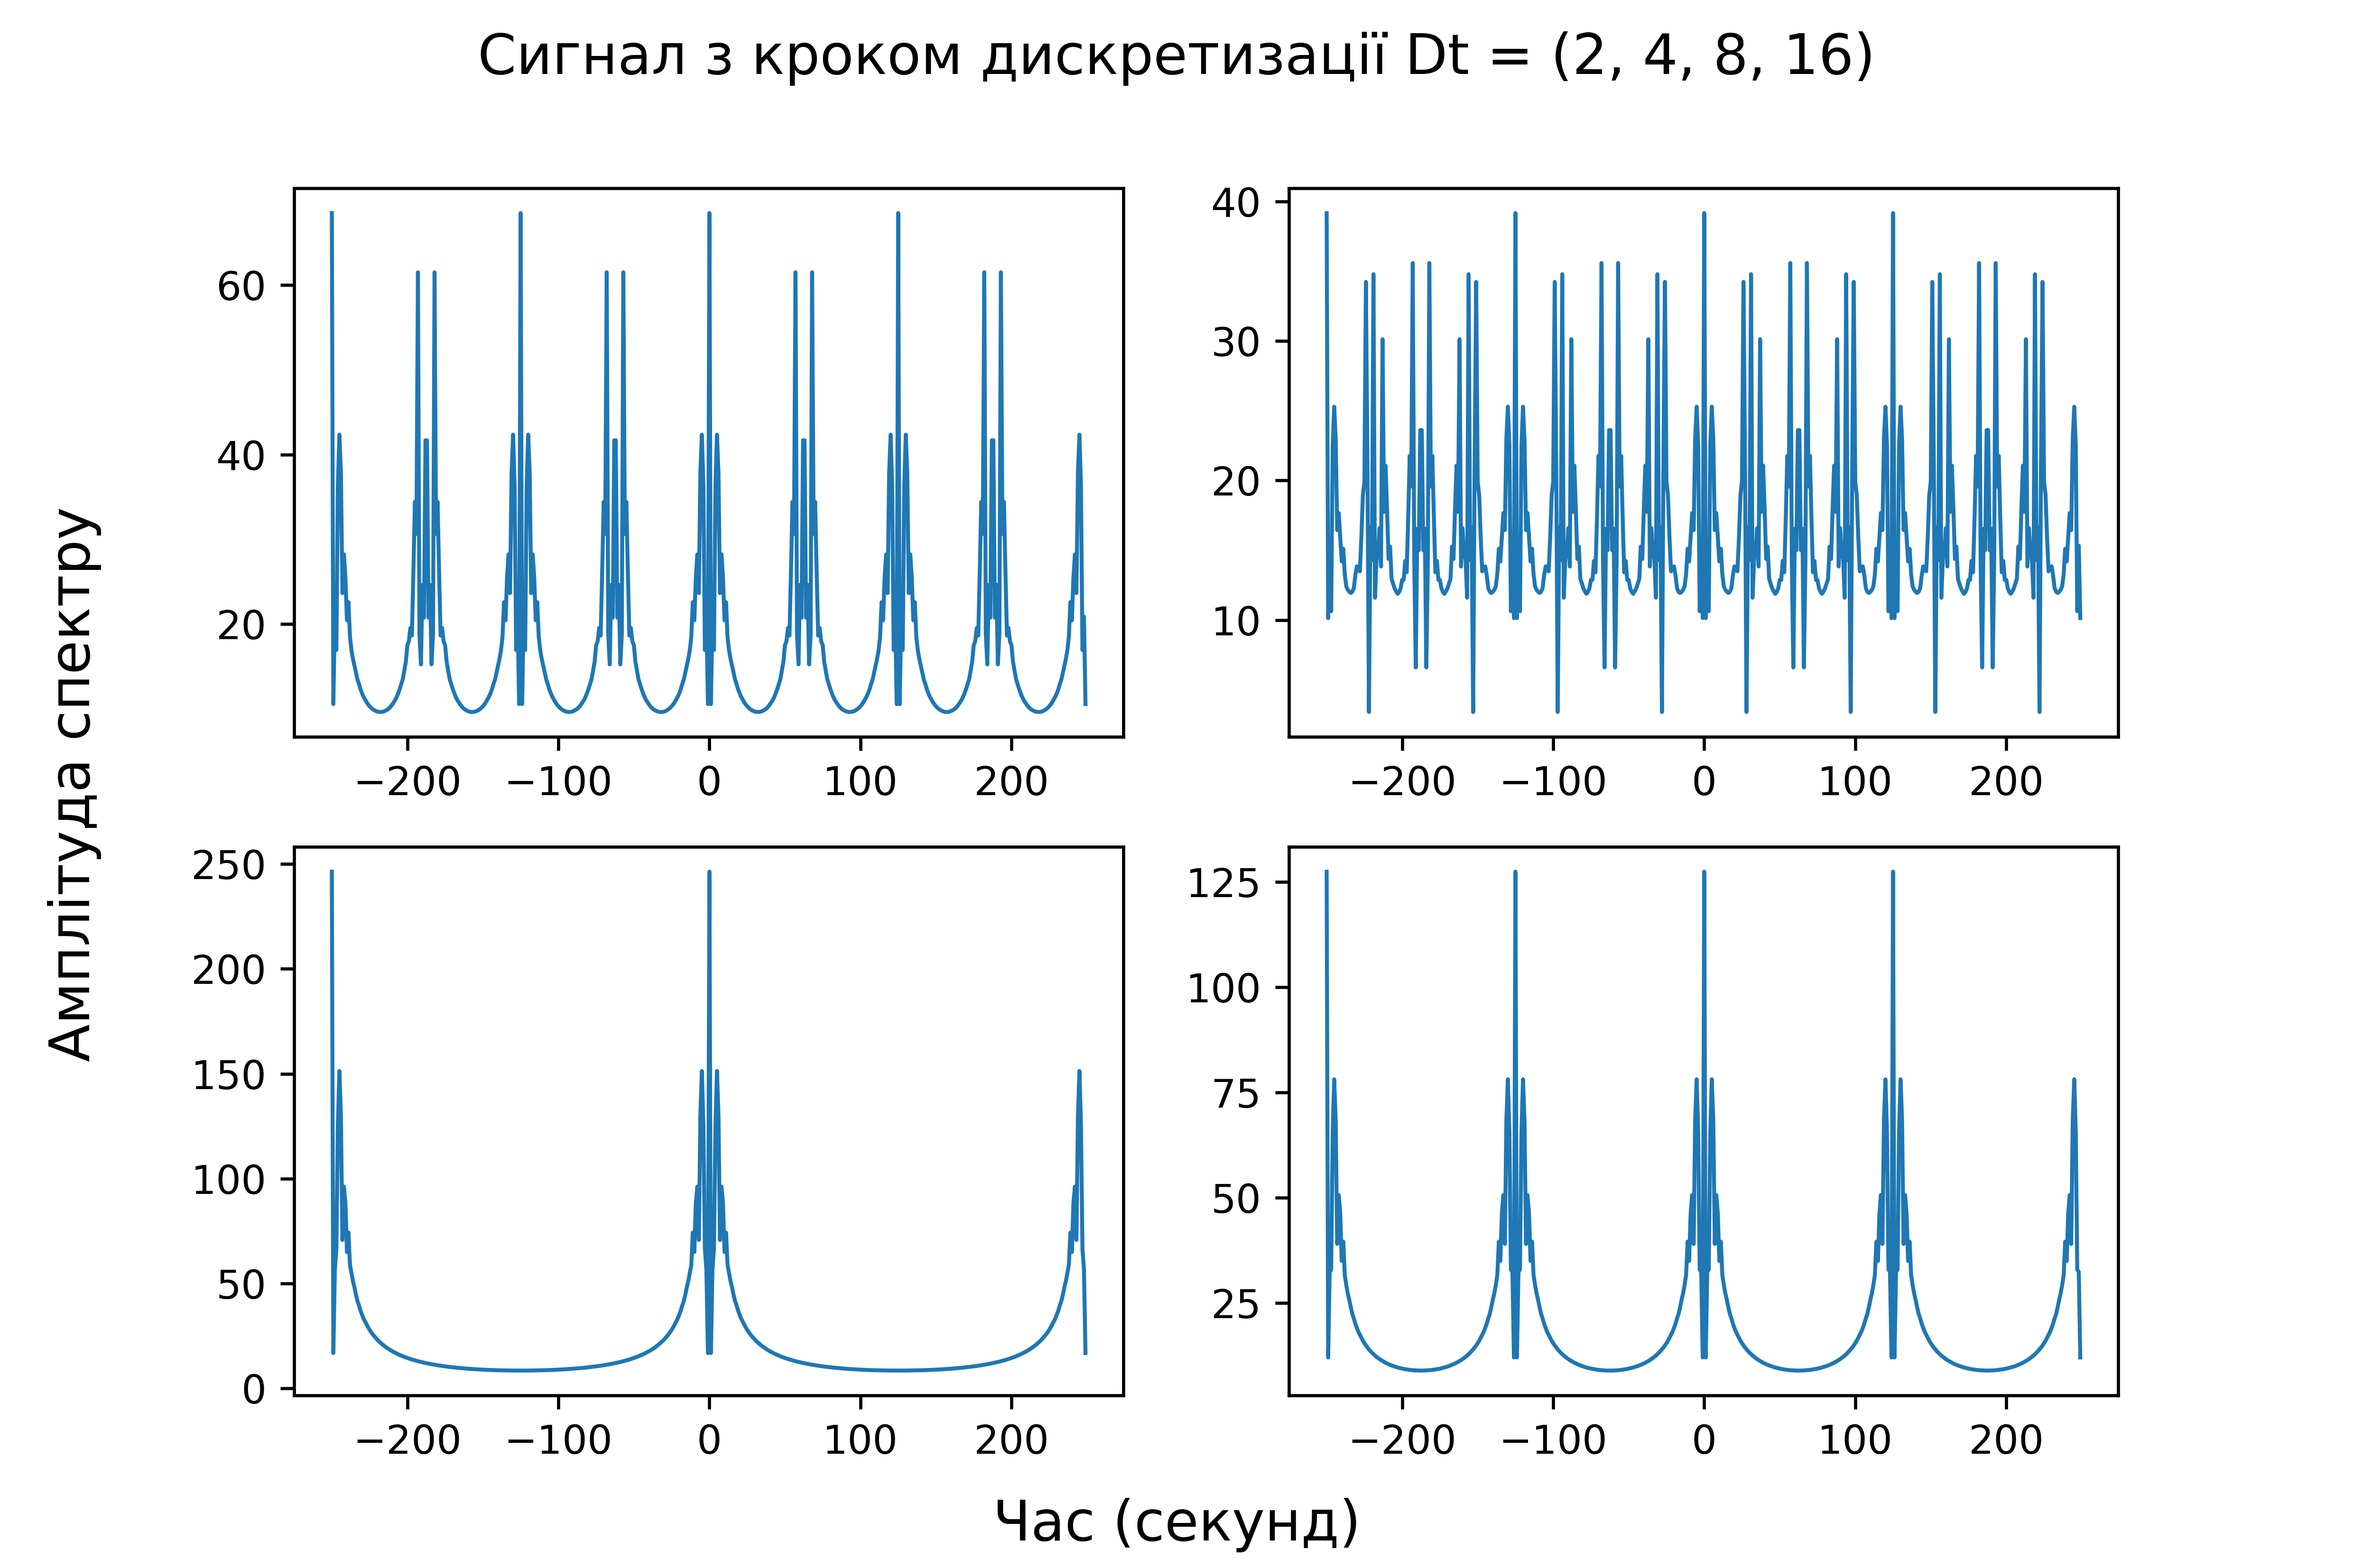
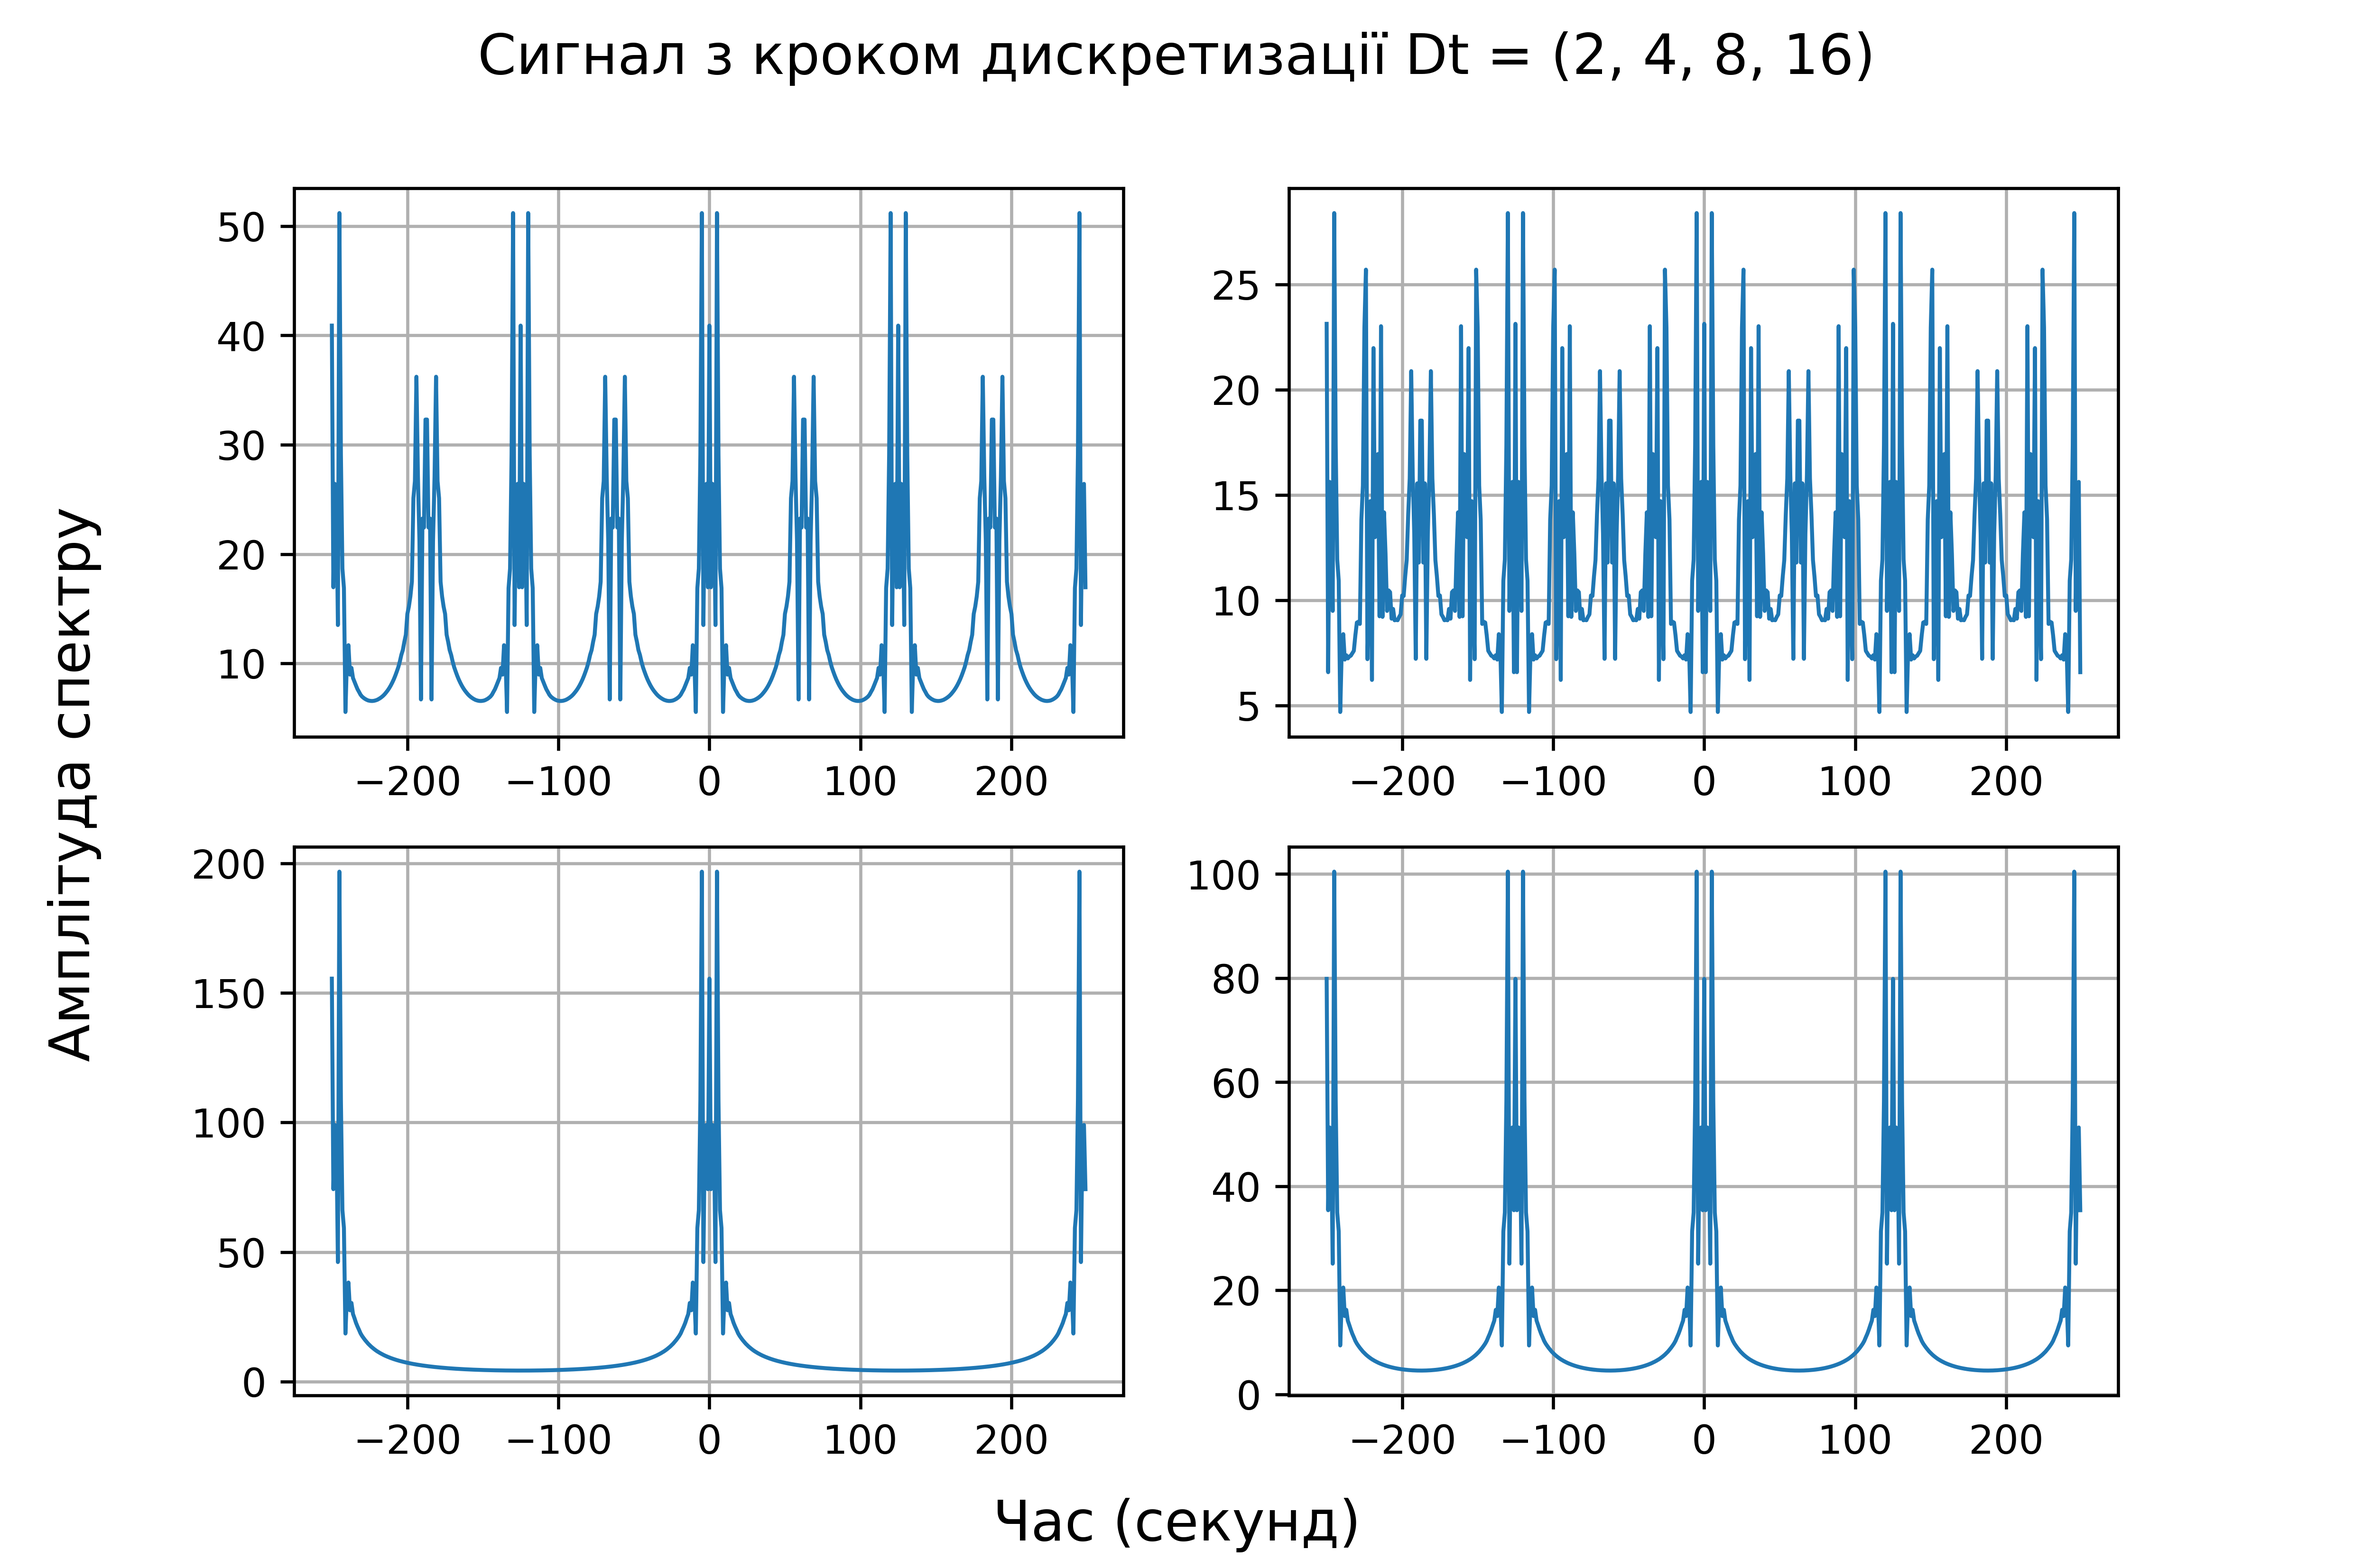
Signal processing, 3

diff --git a/SignalProcessing/SignalProcessing.py b/SignalProcessing/SignalProcessing.py
@@ -1,4 +1,5 @@
 import numpy
+import numpy as np
 import scipy
 import matplotlib.pyplot as plt
 
@@ -74,19 +75,7 @@ def build_graphic():
         discrete_signal_after_filers += [list(filtered_signal2)]
         ...
 
-    e1 = discrete_signal_after_filers - filtered_signal
-    print(e1)
-    print("______________________")
-
     x1 = [2, 4, 8, 16]
-    e2 = e1[0][0:len(x1)]
-    signal_noise = numpy.var(e1)/numpy.var(filtered_signal)
-    signal_noise2 = []
-    for i in range(len(x1)):
-        signal_noise2.append(signal_noise - e1[0][i])
-
-    print(x1)
-    print(signal_noise)
     x_lab = "Час (секунд)"
     y_lab = "Амплітуда сигналу"
     title_disc = "Сигнал з кроком дискретизації Dt = (2, 4, 8, 16)"
@@ -94,9 +83,73 @@ def build_graphic():
     draw2(time_line_ox, discrete_signals, x_lab, y_lab, title_disc, "графік 3")
     draw2(freq_countdown, discrete_spectrums, x_lab, "Амплітуда спектру", title_disc, "графік 4")
     draw2(time_line_ox, discrete_signal_after_filers, x_lab, y_lab, title_disc, "графік 5")
-    draw1(x1, e2, "Крок дискретизації", "Дисперсія", "Залежність дисперсії від кроку дискретизації", "графік 6")
-    draw1(x1, signal_noise2, "Крок дискретизації", "ССШ", "Залежність дисперсії від кроку дискретизації", "графік 7")
 
+    dispersions = []
+    signal_noise = []
+    for i in range(len(x1)):
+        e1 = discrete_signal_after_filers[i] - filtered_signal
+        dispersion = numpy.var(e1)
+        dispersions.append(dispersion)
+        signal_noise.append(numpy.var(filtered_signal) / dispersion)
+        ...
+
+    draw1(x1, dispersions, "Крок дискретизації", "Дисперсія", "Залежність дисперсії від кроку дискретизації",
+          "графік 6")
+    draw1(x1, signal_noise, "Крок дискретизації", "ССШ", "Залежність відношення сигнал-шум від кроку дискретизації",
+          "графік 7")
+# Практична робота №4
+    bits_list = []
+    quantize_signals = []
+    num = 0
+    x2 = [4, 16, 64, 256]
+    for m in x2:
+        delta = (numpy.max(filtered_signal) - numpy.min(filtered_signal)) / (m - 1)
+        quantize_signal = delta * np.round(filtered_signal / delta)
+        quantize_signals.append(list(quantize_signal))
+        quantize_levels = numpy.arange(numpy.min(quantize_signal), numpy.max(quantize_signal) + 1, delta)
+        quantize_bit = numpy.arange(0, m)
+        quantize_bit = [format(bits, '0' + str(int(numpy.log(m) / numpy.log(2))) + 'b') for bits in quantize_bit]
+        quantize_table = numpy.c_[quantize_levels[:m], quantize_bit[:m]]
+        fig, ax = plt.subplots(figsize=(14 / 2.54, m / 2.54))
+        table = ax.table(cellText=quantize_table, colLabels=['Значення сигналу', 'Кодова послідовність'],
+                         loc='center')
+        table.set_fontsize(14)
+        table.scale(1, 2)
+        ax.axis('off')
+        fig.savefig('./figures/' + 'Таблиця квантування для %d рівнів ' % m + '.png', dpi=600)
+        bits = []
+        for signal_value in quantize_signal:
+            for index, value in enumerate(quantize_levels[:m]):
+                if numpy.round(numpy.abs(signal_value - value), 0) == 0:
+                    bits.append(quantize_bit[index])
+                    break
+
+        bits = [int(item) for item in list(''.join(bits))]
+        bits_list.append(bits)
+        fig, ax = plt.subplots(figsize=(21 / 2.54, 14 / 2.54))
+        ax.step(numpy.arange(0, len(bits)), bits, linewidth=0.1)
+        ax.set_xlabel("Біти", fontsize=14)
+        ax.set_ylabel("Амплітуда сигналу", fontsize=14)
+        plt.title(f'Кодова послідовність при кількості рівнів квантування {m}', fontsize=14)
+        ax.grid()
+        fig.savefig('./figures/' + 'графік %d ' % (8 + num) + '.png', dpi=600)
+        num += 1
+        ...
+    dispersions = []
+    signal_noise = []
+    for i in range(len(x2)):
+        e1 = quantize_signals[i] - filtered_signal
+        dispersion = numpy.var(e1)
+        dispersions.append(dispersion)
+        signal_noise.append(numpy.var(filtered_signal) / dispersion)
+        ...
+
+    draw2(time_line_ox, quantize_signals, "Час(сек)", "Амплітуда сигналу",
+          "Цифрові сигнали з рівнями квантування (4, 16, 64, 256)", "графік 12")
+    draw1(x2, dispersions, "Кількість рівнів квантування", "Дисперсія",
+          "Залежність дисперсії від кількості рівнів квантування", "графік 13")
+    draw1(x2, signal_noise, "Кількість рівнів квантування", "ССШ",
+          "Залежність відношення сигнал-шум від кількості рівнів квантування", "графік 14")
     ...
 
 
@@ -106,6 +159,7 @@ def draw2(x, y, x_lab: str, y_lab: str, title: str, file_name: str):
     for i in range(0, 2):
         for j in range(0, 2):
             ax[i][j].plot(x, y[s], linewidth=1)
+            ax[i][j].grid()
             s += 1
             ...
         ...
